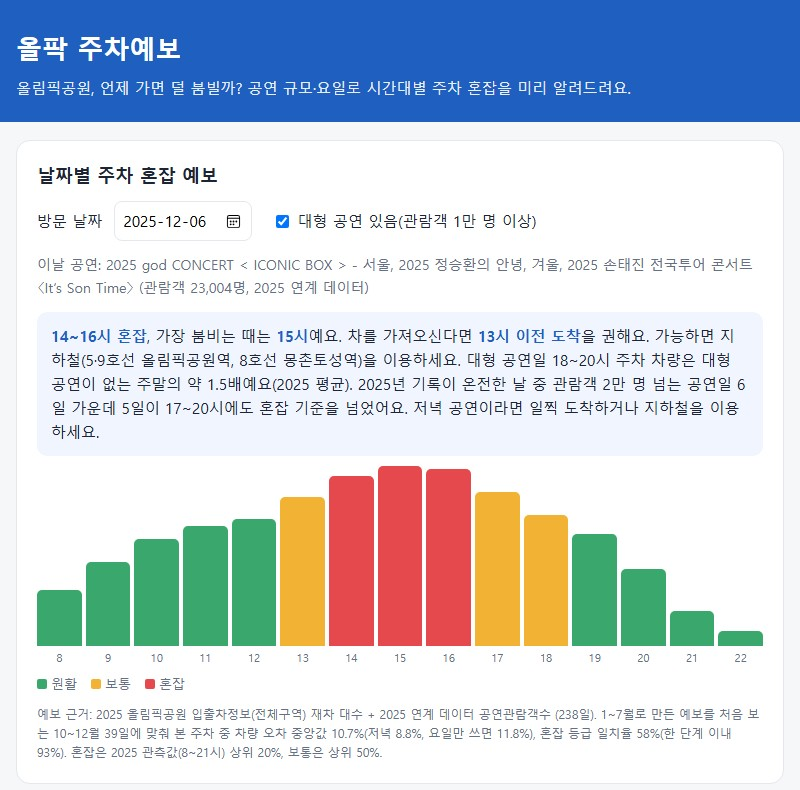
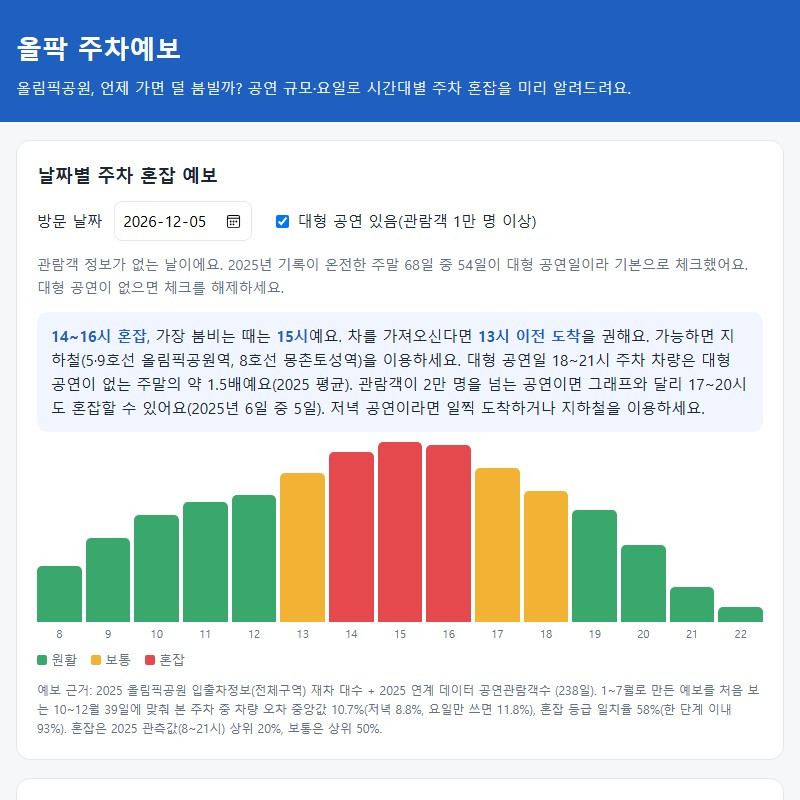
Align evening window, fix event-day arrival, drop month factor

diff --git a/web/app.js b/web/app.js
@@ -36,7 +36,7 @@ function autoEvent() {
   const ev = eventsOn($('date').value);
   const aud = ev.find((e) => e.audience != null); // 2025 연계 데이터(관람객 수)만 공연일로 믿는다
   const d = new Date($('date').value + 'T00:00:00'), we = d.getDay() === 0 || d.getDay() === 6;
-  const known = $('date').value.startsWith('2025'); // 2025는 연계 데이터에 없으면 공연 없는 날
+  const known = $('date').value.startsWith('2025') && !M.linked_missing.includes($('date').value); // 연계 데이터가 있는 2025 날짜는 공연 없는 날
   $('event').checked = aud ? aud.audience >= M.big_audience : !known && we; // 영문 공연정보 날짜는 등록일이 섞여 쓰지 않음
   const reg = ev.filter((e) => e.audience == null);
   $('eventList').innerHTML = aud
@@ -72,14 +72,15 @@ function summarize(vals) {
   const busy = runsOf(2), calm = runsOf(0);
   const d = new Date($('date').value + 'T00:00:00');
   const dt = d.getDay() === 0 || d.getDay() === 6 ? 'weekend' : 'weekday';
-  const eve = (k) => [18, 19, 20].reduce((s, h) => s + M.curves[`${dt}_${k}`][h], 0);
+  const eve = (k) => [18, 19, 20, 21].reduce((s, h) => s + M.curves[`${dt}_${k}`][h], 0);
   const big = $('event').checked
-    ? ` 대형 공연일 18~20시 주차 차량은 대형 공연이 없는 ${dt === 'weekend' ? '주말' : '평일'}의 약 ${(eve(1) / eve(0)).toFixed(1)}배예요(2025 평균). 2025년 기록이 온전한 날 중 관람객 2만 명 넘는 공연일 ${M.huge_days}일 가운데 ${M.huge_busy_days}일이 17~20시에도 혼잡 기준을 넘었어요. 저녁 공연이라면 일찍 도착하거나 지하철을 이용하세요.` : '';
+    ? ` 대형 공연일 18~21시 주차 차량은 대형 공연이 없는 ${dt === 'weekend' ? '주말' : '평일'}의 약 ${(eve(1) / eve(0)).toFixed(1)}배예요(2025 평균). 관람객이 2만 명을 넘는 공연이면 그래프와 달리 17~20시도 혼잡할 수 있어요(2025년 ${M.huge_days}일 중 ${M.huge_busy_days}일). 저녁 공연이라면 일찍 도착하거나 지하철을 이용하세요.` : '';
   if (!busy.length) {
     const q = calm.length ? `${fmt(calm)}는 대체로 원활해요.` : '';
     return `이날은 크게 붐비지 않을 것으로 보여요. 가장 차가 많은 시간은 <b>${HOURS[peak]}시</b> 무렵이에요. ${q}${big}`;
   }
-  const arrive = busy[0][0] - 1; // FAQ: 공연 임박 시 1시간 여유 권장
+  const main = $('event').checked ? busy.find(([a]) => a >= 12) || busy[0] : busy[0]; // 공연일은 오후 혼잡 기준
+  const arrive = main[0] - 1; // FAQ: 공연 임박 시 1시간 여유 권장
   const morning = dt === 'weekday' && !$('event').checked && busy[0][0] <= 11
     ? ` 평일 오전 붐빔은 대형 공연이 없는 날에도 나타나요(2025년 대형 공연 없는 평일 10시 평균 ${Math.round(M.curves.weekday_0[10]).toLocaleString()}대).` : '';
   return `<b>${fmt(busy)} 혼잡</b>, 가장 붐비는 때는 <b>${HOURS[peak]}시</b>예요. 차를 가져오신다면 <b>${arrive}시 이전 도착</b>을 권해요. 가능하면 지하철(5·9호선 올림픽공원역, 8호선 몽촌토성역)을 이용하세요.${morning}${big}`;

diff --git a/analysis/build_model.py b/analysis/build_model.py
@@ -72,10 +72,13 @@ if __name__ == '__main__':
     day0 = h[h.hour == 0]
     eve = h[h.hour.between(17, 20)].groupby(h.ts.dt.date).agg(aud=('audience', 'max'), mx=('occ', 'max'))
     huge = eve[eve.aud >= 20000]  # 관람객 2만 명 넘는 날 저녁도 혼잡이었는지(앱 안내 문장)
+    ev = pd.read_csv(W / 'data/events2025_hourly.csv', parse_dates=['ts'])
+    missing = sorted(set(pd.date_range('2025-01-01', '2025-12-31').date) - set(ev.ts.dt.date))  # 연계 데이터에 없는 날
     model = {'source': SRC, 'days': int(h.ts.dt.date.nunique()), 'months': sorted(int(m) for m in h.month.unique()),
              'big_audience': BIG, 'curve_days': {f'{a}_{b}': int(v) for (a, b), v in n.items()},
              'weekend_days': int((day0.dt == 'weekend').sum()), 'weekend_big_days': int(((day0.dt == 'weekend') & (day0.big == 1)).sum()),
              'huge_days': int(len(huge)), 'huge_busy_days': int((huge.mx >= thr['busy']).sum()),
+             'linked_missing': [str(d) for d in missing],
              'unit': 'cars', 'curves': curves, 'thresholds': thr,
              'validation': {'train': '2025-01~07', 'test': '2025-10~12', **val}}
     (OUT / 'model.json').write_text(json.dumps(model, ensure_ascii=False), encoding='utf-8')

diff --git a/analysis/build_site_data.py b/analysis/build_site_data.py
@@ -52,18 +52,6 @@ def build_events():
     return len(ev)
 
 
-def build_month_factor():
-    m = read('monthly_parking')
-    m = m[m.주차장소 == '올림픽공원'].copy()
-    m['월'] = m.월.str.replace('월', '').astype(int)
-    m['주차대수'] = m.주차대수.astype(int)
-    by = m.groupby('월').주차대수.mean()
-    return {int(k): round(float(v / by.mean()), 3) for k, v in by.items()}
-
-
 if __name__ == '__main__':
     print('docs', build_docs())
     print('events', build_events())
-    mf = build_month_factor()
-    (OUT / 'month_factor.json').write_text(json.dumps(mf), encoding='utf-8')
-    print('month_factor', mf)

diff --git a/README.md b/README.md
@@ -9,13 +9,16 @@
 
 ## 데이터 갱신
 
-원자료(`data/raw/`)는 공공데이터포털에서 내려받는다. 연계 API는 `.env`에 `KCISA_KEY`가 필요하다.
+원자료(`data/raw/`)는 공공데이터포털에서 내려받는다. 2025 API는 `.env`에 `KCISA_KEY`(연계), `KCISA_KEY_INOUT`(입출차)이 필요하다.
 
 ```
+python analysis/fetch_linked.py 1000 API_CPM_009     # 2025 연계 데이터
+python analysis/fetch_linked.py 10000 API_CPM_008    # 2025 입출차정보(전체구역)
+uv run --no-project --with pandas python analysis/parse_2025.py
 uv run --no-project --with pandas python analysis/build_site_data.py
 uv run --no-project --with pandas python analysis/build_model.py
 ```
 
 ## 사용 데이터
 
-한국체육산업개발주식회사 올림픽공원 입출차 정보, 올림픽공원 2025 차량입출차·공연·날씨정보 등 연계 데이터, 월별주차현황, 영문 공연정보, 자주 묻는 질문정보, 올림픽공원 핫뉴스 정보 (공공데이터포털, 이용허락범위 제한 없음)
+한국체육산업개발주식회사 올림픽공원 입출차정보(전체구역, 2025 API), 올림픽공원 2025 차량입출차·공연·날씨정보 등 연계 데이터, 올림픽공원 입출차 정보(2024-07), 영문 공연정보, 자주 묻는 질문정보, 올림픽공원 핫뉴스 정보 (공공데이터포털, 이용허락범위 제한 없음)
